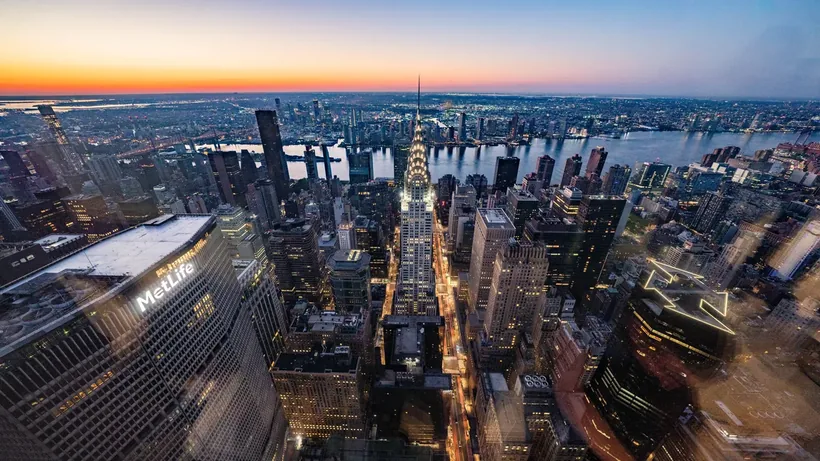
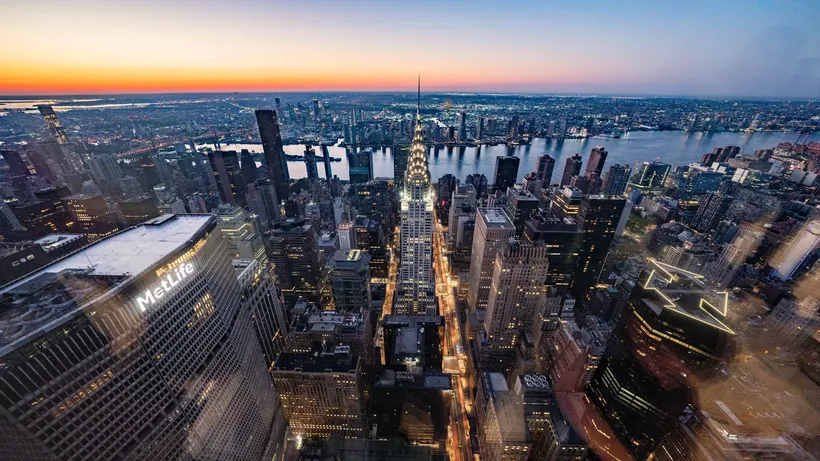
As duas fotos sem procedencia, e o que a medicao revelou
O site nao tem mais nenhum credito pendente.

nova-york/summit e santiago/lastarria-bellavista estavam no ar com
"Credito pendente - preencher autor e licenca". A lacuna estava
declarada na pagina, mas foto publicada sem procedencia e pior que
lacuna: a lacuna e honesta, a foto e uma afirmacao que o site nao podia
sustentar.

A HIPOTESE ERRADA, TESTADA ANTES DE VIRAR CONCLUSAO

Eu havia deduzido Storyblocks, porque as duas entraram no mesmo commit
que quinze fotos de la, todas com codigo SBI. O Allan abriu a conta e a
hipotese foi verificada no historico: 64 imagens baixadas, 56 casam com
creditos ja publicados, e as 8 restantes sao Lisboa, Sintra, Noruega,
Varsovia e uma praia. Buscas diretas por Manhattan, Nyc, skyscrapers,
Lastarria, Bellavista e Vanderbilt nao acharam nenhuma delas.

Nao vieram de la. Deduzir de onde vem uma foto porque as vizinhas vem
dali nao e apurar - e supor.

E O QUE A MEDICAO REVELOU

A substituta do SUMMIT foi achada em Category:Views from SUMMIT One
Vanderbilt, com a descricao "Chrysler Building Metlife Building Sunrise
From One Vanderbilt's Summit". Quando o recorte ficou pronto, parecia
igual ao que ja estava no ar.

Nao parecia: era. Comparadas pixel a pixel, reduzidas a 256x144, a
diferenca media por canal deu 1,99 - o que sobra de reencodar e de um
corte alguns pixels diferente. A de Santiago, para calibrar, deu 78,38
contra a antiga, e e de fato outra foto.

Ou seja: a foto do SUMMIT sempre foi esta, de Anthony Quintano sob
[…]

diff --git a/destinos/nova-york/index.html b/destinos/nova-york/index.html
@@ -176,7 +176,7 @@
     <div class="preco"><span class="preco-val">US$ 44</span>
       <span class="preco-nota">+ US$ 3 de taxa</span></div>
   </div>
-  <figure class="foto"><img srcset="../../assets/img/nova-york/summit-400.webp 400w, ../../assets/img/nova-york/summit-640.webp 640w, ../../assets/img/nova-york/summit-820.webp 820w, ../../assets/img/nova-york/summit.webp 1200w" sizes="(min-width:1080px) 820px, 100vw" src="../../assets/img/nova-york/summit.webp" alt="SUMMIT One Vanderbilt" width="960" height="540" loading="lazy" decoding="async"><figcaption><p class="foto-cred foto-cred-falta">Crédito pendente — preencher autor e licença</p></figcaption></figure>
+  <figure class="foto"><img srcset="../../assets/img/nova-york/summit-400.webp 400w, ../../assets/img/nova-york/summit-640.webp 640w, ../../assets/img/nova-york/summit-820.webp 820w, ../../assets/img/nova-york/summit.webp 1200w" sizes="(min-width:1080px) 820px, 100vw" src="../../assets/img/nova-york/summit.webp" alt="A vista do mirante SUMMIT One Vanderbilt ao amanhecer, com o edifício MetLife em primeiro plano e a torre iluminada do Chrysler sobre a Park Avenue" width="1200" height="675" loading="lazy" decoding="async"><figcaption><p class="foto-cred">Anthony Quintano · CC BY 2.0 · via Wikimedia Commons</p></figcaption></figure>
   <div class="campos"><div class="campo-l"><div class="rot">Valor da entrada</div><div class="val">SUMMIT Experience US$ 44 · Signature US$ 58 · Flex at Lunch US$ 65 · <b>Ascent</b> (com os elevadores de vidro externos) US$ 68 · Ultimate US$ 82 · Premium US$ 149. Taxa de US$ 3 por pedido. Desconto para moradores de NY e Long Island; gratuidade ou desconto para militares americanos.</div></div>
     <div class="campo-l"><div class="rot">Dias em que não funciona</div><div class="val">Funcionamento diário, 8h à meia-noite, última entrada 22h30. <span class="flag">Não há declaração oficial de 365 dias por ano</span> nem lista de feriados publicada. Confirme a data antes de comprar.</div></div>
     <div class="campo-l"><div class="rot">Endereço</div><div class="val">45 East 42nd Street, NY 10017. Três entradas: pelo Main Concourse do Grand Central, pela rua no 45 E 42nd St, ou pelo Transit Hall na Vanderbilt Avenue com a 43rd.<br><a class="mapa" href="https://www.google.com/maps/search/?api=1&query=SUMMIT+One+Vanderbilt%2C+New+York%2C+NY" target="_blank" rel="noopener" aria-label="Abrir SUMMIT One Vanderbilt no Google Maps"><svg width="15" height="15" viewBox="0 0 24 24" fill="none" aria-hidden="true"><path d="M12 21s7-5.5 7-11a7 7 0 1 0-14 0c0 5.5 7 11 7 11Z" stroke="currentColor" stroke-width="1.8" stroke-linejoin="round"></path><circle cx="12" cy="10" r="2.5" stroke="currentColor" stroke-width="1.8"></circle></svg><span>Ver no mapa</span></a></div></div>

diff --git a/destinos/santiago/index.html b/destinos/santiago/index.html
@@ -514,7 +514,7 @@
     <div class="preco"><span class="preco-val">Grátis</span>
       <span class="preco-nota">são bairros, via pública</span></div>
   </div>
-  <figure class="foto"><img srcset="../../assets/img/santiago/lastarria-bellavista-400.webp 400w, ../../assets/img/santiago/lastarria-bellavista-640.webp 640w, ../../assets/img/santiago/lastarria-bellavista-820.webp 820w, ../../assets/img/santiago/lastarria-bellavista.webp 1200w" sizes="(min-width:1080px) 820px, 100vw" src="../../assets/img/santiago/lastarria-bellavista.webp" alt="Barrio Lastarria e Barrio Bellavista" width="960" height="540" loading="lazy" decoding="async"><figcaption><p class="foto-cred foto-cred-falta">Crédito pendente — preencher autor e licença</p></figcaption></figure>
+  <figure class="foto"><img srcset="../../assets/img/santiago/lastarria-bellavista-400.webp 400w, ../../assets/img/santiago/lastarria-bellavista-640.webp 640w, ../../assets/img/santiago/lastarria-bellavista-820.webp 820w, ../../assets/img/santiago/lastarria-bellavista.webp 1200w" sizes="(min-width:1080px) 820px, 100vw" src="../../assets/img/santiago/lastarria-bellavista.webp" alt="Terraço de café com mesas e guarda-sóis na calçada do Barrio Lastarria, em Santiago" width="1200" height="675" loading="lazy" decoding="async"><figcaption><p class="foto-cred">Tommy Boy · CC BY-SA 4.0 · via Wikimedia Commons</p></figcaption></figure>
   <div class="campos"><div class="campo-l"><div class="rot">Valor da entrada</div><div class="val"><b>Gratuito</b> — são bairros, via pública. Os custos são de consumo:
         restaurantes, bares e os museus que ficam dentro deles.</div></div>
     <div class="campo-l"><div class="rot">Dias em que não funciona</div><div class="val">Os bairros nunca fecham.
